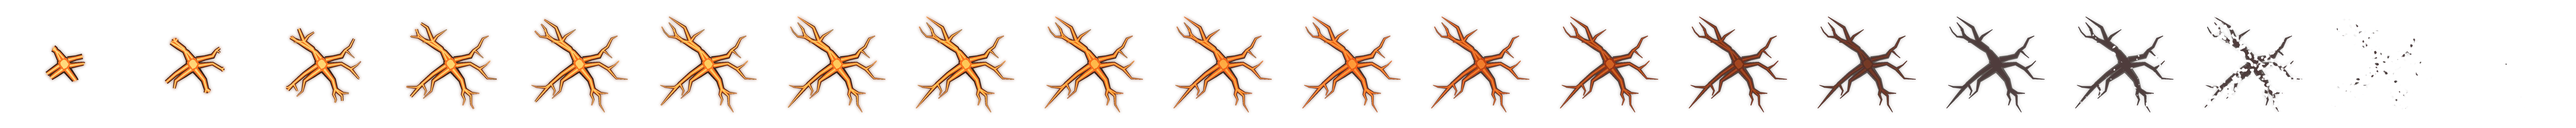
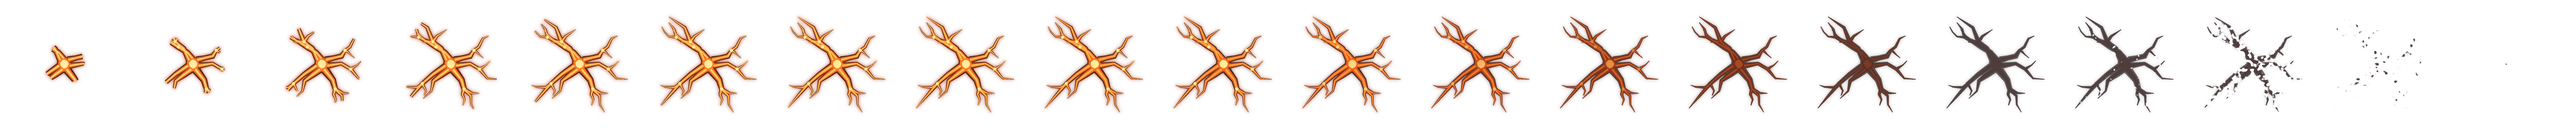
Ultimates land as the heaviest blow in the game and carry on each cut-in's last beat
- Weight: a 0.22 s freeze on the impact (a Pounce's best is 0.09), the hardest shake (1.6), then the world in
  slow motion for 0.4 s with the screen's edges tinted the ultimate's colour (the dodge's stays cool blue), and a
  longer colour flash.
- Sunflare picks up where its cut-in ends: two rings of golden crystal burst up round the Elder on a rune of
  light (ring, inner ring, turning ticks) under the sun breaking open behind it; the crystals take the
  Amethyst's prism painter in gold.
- Thorn Snare picks up its cut-in's green ribbons: they fling out from the Elder and spiral down into the ground
  before the roots come up.
- Quake's rupture takes its cinematic's look: a red glow under the lava and hot nodes where the cracks fork and
  at the crater.
Checked with flutter analyze (no new issues).

Claude-Session: https://claude.ai/code/session_01HANmFDddYbzo6K9KzGZmoK

diff --git a/flutter/lib/features/wilds/wilds_screen.dart b/flutter/lib/features/wilds/wilds_screen.dart
@@ -2666,10 +2666,13 @@ class _MapPainter extends CustomPainter {
     // a perfect dodge: the world slows and cools for a moment
     final sm = s._raid?.slowmo ?? 0;
     if (sm > 0 && !rm) {
+      // (an ultimate landing: its own colour, deeper)
+      final ult = (s._raid?.ultSlow ?? 0) > 0;
+      final col = ult ? _tint(s._raid!.palette) : const Color.fromRGBO(120, 200, 255, 1);
       canvas.drawRect(
           Offset.zero & size,
           Paint()
-            ..shader = ui.Gradient.radial(c, size.longestSide * 0.7, [const Color(0x00000000), Color.fromRGBO(120, 200, 255, 0.22 * math.min(1.0, sm / 0.2))], const [0.45, 1.0]));
+            ..shader = ui.Gradient.radial(c, size.longestSide * 0.7, [const Color(0x00000000), col.withValues(alpha: (ult ? 0.3 : 0.22) * math.min(1.0, sm / 0.2))], const [0.45, 1.0]));
     }
     canvas.drawRect(
         Offset.zero & size,
@@ -3748,8 +3751,8 @@ class _MapPainter extends CustomPainter {
   }
 
   static const _groundBursts = {'pulse', 'tremor', 'rockrise', 'spores', 'sweep', 'dust', 'scar', 'reef', 'snare', 'mistwave', 'mistlinger',
-    'uquake', 'usnare', 'ureef', 'usunpool'};
-  static const _ultPieceKinds = {'uquake', 'usnare', 'usnarehold', 'ureef', 'ucrystal', 'usun'};
+    'uquake', 'usnare', 'ureef', 'usunpool', 'usunrune'};
+  static const _ultPieceKinds = {'uquake', 'usnare', 'usnarehold', 'ureef', 'ucrystal', 'usun', 'usunring'};
 
   /// Your Evochi's stage, for its moves' size and flourish: an Eggling's are small and simple, a Juvenile's
   /// fuller, an Elder's the whole show.
@@ -4260,12 +4263,24 @@ class _MapPainter extends CustomPainter {
   /// A crystal of an Amethyst's ring: a six-sided prism of violet glass with a pointed tip, leaning out from it,
   /// three faces lit differently, its edges catching the light, a glow inside and round its root, a twinkle at
   /// its tip (a smaller one beside it, a Juvenile's on).
-  void _crystal(Canvas canvas, double x, double z, double outX, double outZ, double h, double wd, double age, {bool cluster = false}) {
+  // a crystal's glass: ground light, inner glow, its three faces (root to shoulder), its tip's three faces, its outline
+  static const _violetGlass = [
+    Color(0xFFAA78FF), Color(0xFFBE8CFF), Color(0xE6C9A8FF), Color(0xE6F1E4FF), Color(0xE08A5ACF), Color(0xE0BF96F5),
+    Color(0xE65A3496), Color(0xE6875CC8), Color(0xF2FAF3FF), Color(0xEACCAEFA), Color(0xE69466D8), Color(0xFF3E1F6A),
+  ];
+  static const _goldGlass = [
+    Color(0xFFFFC85A), Color(0xFFFFD27A), Color(0xE6FFE2A0), Color(0xE6FFF6D8), Color(0xE0E8A040), Color(0xE0FFD07A),
+    Color(0xE6A8641C), Color(0xE6D49030), Color(0xF2FFFBEA), Color(0xEAFFE0A0), Color(0xE6E0A040), Color(0xFF6A3E10),
+  ];
+
+  void _crystal(Canvas canvas, double x, double z, double outX, double outZ, double h, double wd, double age, {bool cluster = false, bool gold = false}) {
     final g = s._toScreen(x, z);
     final H = h * _up, W = wd * s._u;
     final glowK = 0.75 + 0.25 * math.sin(age * 14 + x);
+    // its glass: an Amethyst's violet, or (the Sunflare's) gold
+    final gl = gold ? _goldGlass : _violetGlass;
     // the light it throws on the ground, and its bloom
-    canvas.drawOval(Rect.fromCenter(center: g, width: W * 6, height: W * 2.6), _add(Color.fromRGBO(170, 120, 255, 0.35 * glowK), blur: W));
+    canvas.drawOval(Rect.fromCenter(center: g, width: W * 6, height: W * 2.6), _add(gl[0].withValues(alpha: 0.35 * glowK), blur: W));
     void one(Offset base, double hh, double ww, double lean) {
       final tip = base + Offset(outX * hh * lean, -hh);
       final ax = tip - base;
@@ -4279,13 +4294,13 @@ class _MapPainter extends CustomPainter {
       Path quad(Offset a, Offset b, Offset c, Offset d) => Path()..moveTo(a.dx, a.dy)..lineTo(b.dx, b.dy)..lineTo(c.dx, c.dy)..lineTo(d.dx, d.dy)..close();
       Path tri(Offset a, Offset b, Offset c) => Path()..moveTo(a.dx, a.dy)..lineTo(b.dx, b.dy)..lineTo(c.dx, c.dy)..close();
       // inner glow along it
-      canvas.drawPath(quad(bl, sl, sr, br)..addPath(tri(sl, tip, sr), Offset.zero), _add(Color.fromRGBO(190, 140, 255, 0.45 * glowK), blur: ww * 1.2));
-      canvas.drawPath(quad(bl, sl, scl, bcl), Paint()..shader = ui.Gradient.linear(base, sh, [const Color(0xE6C9A8FF), const Color(0xE6F1E4FF)]));
-      canvas.drawPath(quad(bcl, scl, scr, bcr), Paint()..shader = ui.Gradient.linear(base, sh, [const Color(0xE08A5ACF), const Color(0xE0BF96F5)]));
-      canvas.drawPath(quad(bcr, scr, sr, br), Paint()..shader = ui.Gradient.linear(base, sh, [const Color(0xE65A3496), const Color(0xE6875CC8)]));
-      canvas.drawPath(tri(sl, tip, scl), Paint()..color = const Color(0xF2FAF3FF));
-      canvas.drawPath(tri(scl, tip, scr), Paint()..color = const Color(0xEACCAEFA));
-      canvas.drawPath(tri(scr, tip, sr), Paint()..color = const Color(0xE69466D8));
+      canvas.drawPath(quad(bl, sl, sr, br)..addPath(tri(sl, tip, sr), Offset.zero), _add(gl[1].withValues(alpha: 0.45 * glowK), blur: ww * 1.2));
+      canvas.drawPath(quad(bl, sl, scl, bcl), Paint()..shader = ui.Gradient.linear(base, sh, [gl[2], gl[3]]));
+      canvas.drawPath(quad(bcl, scl, scr, bcr), Paint()..shader = ui.Gradient.linear(base, sh, [gl[4], gl[5]]));
+      canvas.drawPath(quad(bcr, scr, sr, br), Paint()..shader = ui.Gradient.linear(base, sh, [gl[6], gl[7]]));
+      canvas.drawPath(tri(sl, tip, scl), Paint()..color = gl[8]);
+      canvas.drawPath(tri(scl, tip, scr), Paint()..color = gl[9]);
+      canvas.drawPath(tri(scr, tip, sr), Paint()..color = gl[10]);
       // a light running up through it
       final run = ((age * 1.6 + x * 0.01) % 1.0);
       final band = Offset.lerp(base, sh, run)!;
@@ -4299,12 +4314,12 @@ class _MapPainter extends CustomPainter {
         ..style = PaintingStyle.stroke
         ..strokeWidth = 1.5
         ..strokeJoin = StrokeJoin.round
-        ..color = const Color(0xFF3E1F6A));
+        ..color = gl[11]);
       canvas.drawLine(scl, bcl, Paint()
-        ..color = const Color(0x553E1F6A)
+        ..color = gl[11].withValues(alpha: 0.33)
         ..strokeWidth = 1);
       canvas.drawLine(scr, bcr, Paint()
-        ..color = const Color(0x553E1F6A)
+        ..color = gl[11].withValues(alpha: 0.33)
         ..strokeWidth = 1);
       _star(canvas, tip + const Offset(0, 1), ww * 0.9, Color.fromRGBO(255, 250, 255, (0.5 + 0.5 * math.sin(age * 16 + x)).clamp(0.0, 1.0)));
     }
@@ -4551,6 +4566,64 @@ class _MapPainter extends CustomPainter {
     }
   }
 
+  /// the Sunflare's rune of light on the ground (its cut-in's last beat): a ring and an inner ring, ticks between,
+  /// snapping out a little past its size and settling, then thinning away
+  void _uSunRune(Canvas canvas, Burst b, double k, double u) {
+    final grow = Curves.easeOutBack.transform((b.t / 0.25).clamp(0.0, 1.0));
+    final a = (1 - ((k - 0.7) / 0.3).clamp(0.0, 1.0)) * math.min(1.0, b.t / 0.05);
+    if (a <= 0) return;
+    final r = b.size * grow;
+    final e = _ellipse(b.x, b.z, r);
+    canvas.drawOval(e, Paint()
+      ..blendMode = BlendMode.plus
+      ..shader = ui.Gradient.radial(e.center, e.width / 2, [Color.fromRGBO(255, 210, 110, 0.22 * a), const Color.fromRGBO(255, 210, 110, 0)]));
+    final ring = Paint()
+      ..style = PaintingStyle.stroke
+      ..color = Color.fromRGBO(255, 222, 140, 0.9 * a);
+    canvas.drawOval(e, ring..strokeWidth = 2.2 * u);
+    canvas.drawOval(_ellipse(b.x, b.z, r * 0.72), ring..strokeWidth = 1.4 * u);
+    for (var i = 0; i < 16; i++) {
+      final an = i * math.pi * 2 / 16 + b.t * 0.6;
+      final p0 = s._toScreen(b.x + math.cos(an) * r * 0.74, b.z + math.sin(an) * r * 0.74);
+      final p1 = s._toScreen(b.x + math.cos(an) * r * (i.isEven ? 0.96 : 0.88), b.z + math.sin(an) * r * (i.isEven ? 0.96 : 0.88));
+      canvas.drawLine(p0, p1, ring..strokeWidth = (i.isEven ? 1.6 : 1.0) * u);
+    }
+  }
+
+  /// the Thorn Snare's release (its cut-in's last beat): green ribbons flung out from your Evochi, spiralling
+  /// down into the ground where the roots will come up
+  void _uSpiral(Canvas canvas, Burst b, double k, Offset g, double u) {
+    final e = Curves.easeOutQuart.transform(k);
+    final c = g - Offset(0, 16 * _up * (1 - e));
+    for (var i = 0; i < 4; i++) {
+      final a0 = i * math.pi / 2 + k * 2.2;
+      final path = Path();
+      for (var j = 0; j <= 18; j++) {
+        final t = j / 18;
+        final an = a0 + t * 2.4;
+        final rr = (8 + b.size * 0.9 * e * t) * s._u;
+        final p = c + Offset(math.cos(an) * rr, math.sin(an) * rr * s._map!.sinP);
+        if (j == 0) {
+          path.moveTo(p.dx, p.dy);
+        } else {
+          path.lineTo(p.dx, p.dy);
+        }
+      }
+      final al = (1 - k) * 0.9;
+      canvas.drawPath(path, Paint()
+        ..style = PaintingStyle.stroke
+        ..strokeCap = StrokeCap.round
+        ..strokeWidth = (5 - 3 * k) * u
+        ..color = Color.fromRGBO(70, 140, 40, 0.55 * al));
+      canvas.drawPath(path, Paint()
+        ..style = PaintingStyle.stroke
+        ..strokeCap = StrokeCap.round
+        ..strokeWidth = (2.2 - 1.2 * k) * u
+        ..blendMode = BlendMode.plus
+        ..color = Color.fromRGBO(200, 255, 140, al));
+    }
+  }
+
   /// the ultimates' standing pieces, each at its own depth: the Quake's rock heaved up and tumbling and its dust
   /// rolling out; the Snare's roots bursting up (and coiling round what they hold); the Reef's coral; the
   /// Shards' ring of crystal
@@ -4660,6 +4733,24 @@ class _MapPainter extends CustomPainter {
           final d = b.size * 1.1 * s._u;
           flare.draw(canvas, flare.at(b.t / b.ttl), Rect.fromCenter(center: c, width: d, height: d));
         }));
+      case 'usunring':
+        // its cut-in's last beat: two rings of golden crystal burst up round it, then sink
+        for (var ring = 0; ring < 2; ring++) {
+          final n = ring == 0 ? 9 : 13;
+          final rad = b.size * (ring == 0 ? 0.62 : 1.0);
+          for (var i = 0; i < n; i++) {
+            final a = (i + ring * 0.5) / n * math.pi * 2;
+            final x = b.x + math.cos(a) * rad, z = b.z + math.sin(a) * rad;
+            final lt = b.t - 0.03 - ring * 0.07 - (i % 3) * 0.012;
+            if (lt <= 0) continue;
+            final up = Curves.easeOutBack.transform((lt / 0.09).clamp(0.0, 1.0));
+            final down = ((b.t - (b.ttl - 0.3)) / 0.3).clamp(0.0, 1.0);
+            final h = up * (1 - Curves.easeIn.transform(down));
+            if (h <= 0.01) continue;
+            final tall = (ring == 0 ? 30.0 : 22.0) * (0.8 + 0.4 * ((i * 7) % 5) / 4);
+            items.add((z, () => _crystal(canvas, x, z, math.cos(a), math.sin(a), tall * h, ring == 0 ? 5.0 : 4.2, lt, cluster: i.isEven, gold: true)));
+          }
+        }
       case 'ucrystal':
         final star = fx?['crystal_burst'];
         if (star != null) {
@@ -5089,6 +5180,10 @@ class _MapPainter extends CustomPainter {
         _uMotes(canvas, b, k, u, const Color(0xFFC8F28A), const Color(0xFF7FC24E), leaves: true);
       case 'usun':
         _uSun(canvas, b, k, g, u);
+      case 'usunrune':
+        _uSunRune(canvas, b, k, u);
+      case 'usnarespiral':
+        _uSpiral(canvas, b, k, g, u);
       case 'usunpool':
         final e = _ellipse(b.x, b.z, b.size * 0.55 * (0.6 + 0.4 * Curves.easeOut.transform(k)));
         canvas.drawOval(e, Paint()

diff --git a/flutter/lib/features/wilds/wilds_combat.dart b/flutter/lib/features/wilds/wilds_combat.dart
@@ -580,6 +580,7 @@ class Raid {
   static const mistSpeed = 420.0;
   /// A perfect dodge slows the world for a moment (real seconds left) and opens a counter window.
   double slowmo = 0, counterT = 0;
+  double ultSlow = 0; // the slow-motion after an ultimate lands (tinted its colour, not the dodge's cool blue)
   /// Potion buffs (an Apothecary brew drunk in the Wilds): id -> seconds left. See [buffDefs].
   final buffs = <String, double>{};
   bool has(String b) => (buffs[b] ?? 0) > 0;
@@ -859,6 +860,7 @@ class Raid {
     _tickMist(dt);
     if (slowmo > 0) {
       slowmo -= dt;
+      ultSlow = math.max(0, ultSlow - dt);
       dt *= 0.35;
     }
     counterT = math.max(0, counterT - dt);
@@ -1663,9 +1665,13 @@ class Raid {
 
   void _signatureFire() {
     final p = pet;
-    hitstop = math.max(hitstop, 0.14);
-    shake = math.max(shake, 1.0);
-    flashT = math.max(flashT, 0.22);
+    // the heaviest blow there is: a long freeze on the impact, the hardest shake, then the world in slow motion a
+    // moment while it lands (a Pounce's best is a 0.09 s freeze and a 0.6 shake)
+    hitstop = math.max(hitstop, 0.22);
+    shake = math.max(shake, 1.6);
+    slowmo = math.max(slowmo, 0.4);
+    ultSlow = 0.4;
+    flashT = math.max(flashT, 0.3);
     flashKind = palette;
     p.glow = 1;
     bursts.add(Burst('lines', p.x, p.z, 0.55, size: 190, tag: palette));
@@ -1715,6 +1721,7 @@ class Raid {
         // hook round each)
         bursts.add(Burst('usnare', p.x, p.z, 2.6, size: 72));
         bursts.add(Burst('usnarefx', p.x, p.z, 2.6, size: 72));
+        bursts.add(Burst('usnarespiral', p.x, p.z, 0.7, size: 72)); // its cut-in's green ribbons, flung out
         for (final f in hostile.toList()) {
           if (p.dist(f) > 72 + f.radius) continue;
           bursts.add(Burst('usnarehold', f.x, f.z, f is Boss ? 3.0 : 2.4, size: f.radius));
@@ -1748,9 +1755,12 @@ class Raid {
           _hurt(f, 26 * atk, from: p, kx: (f.x - p.x) * k * 160, kz: (f.z - p.z) * k * 160, poise: 90, stun: f is Boss ? 0 : 1.3);
         }
       default:
-        // amber: a flash of sunlight that dazzles everything that can see it (its cut-in's sun breaking open)
+        // amber: a flash of sunlight that dazzles everything that can see it (its cut-in's sun breaking open
+        // behind it, and its cut-in's last beat carried on: two rings of golden crystal round it on a rune of light)
         bursts.add(Burst('usun', p.x, p.z, 1.0, size: 170));
         bursts.add(Burst('usunpool', p.x, p.z, 1.2, size: 170));
+        bursts.add(Burst('usunring', p.x, p.z, 1.5, size: 30));
+        bursts.add(Burst('usunrune', p.x, p.z, 1.5, size: 46));
         for (final f in hostile.toList()) {
           if (p.dist(f) > 170) continue;
           bursts.add(Burst('udazzle', f.x, f.z, 1.2, size: f.radius));

diff --git a/tools/art/ult_fx_bake.py b/tools/art/ult_fx_bake.py
@@ -74,6 +74,7 @@ def rupture_geometry(seed, K=7):
     crater = [(math.cos(a) * r, math.sin(a) * r) for a, r in
               ((i * 2 * math.pi / 11, 0.10 * rng.uniform(0.75, 1.25)) for i in range(11))]
     cracks = []
+    forks = []                                           # where a crack forks: a hot node, as in the cinematic
 
     def crack(p0, ang, L, w0, d0, depth):
         m = int(rng.integers(4, 7)) if depth == 0 else int(rng.integers(2, 4))
@@ -91,13 +92,14 @@ def rupture_geometry(seed, K=7):
                 j = int(rng.integers(2, m - 1))
                 side = rng.choice((-1, 1))
                 dj = pts[j + 1] - pts[j]
+                forks.append((pts[j], d0 + seg[j]))
                 crack(pts[j], math.atan2(dj[1], dj[0]) + side * rng.uniform(0.6, 1.0),
                       L * rng.uniform(0.22, 0.38), w[j] * 0.55, d0 + seg[j], 1)
     a0 = rng.uniform(0, 2 * math.pi)
     for k in range(K):
         a = a0 + k * 2 * math.pi / K + rng.uniform(-0.25, 0.25)
         crack((math.cos(a) * 0.09, math.sin(a) * 0.09), a, rng.uniform(0.70, 0.96), 0.030 * rng.uniform(0.8, 1.2), 0.0, 0)
-    return cracks, crater
+    return cracks, crater, forks
 
 
 def _crack_polys(cracks, reach, scale, c, wk):
@@ -126,7 +128,7 @@ def _crack_polys(cracks, reach, scale, c, wk):
 
 
 def rupture_frames(seed=777, size=384, n_open=8, n_cool=8, n_erode=4):
-    cracks, crater = rupture_geometry(seed)
+    cracks, crater, forks = rupture_geometry(seed)
     erode_n = ndimage.gaussian_filter(np.random.default_rng(seed + 1).random((size * 2, size * 2)), 6)
     erode_n = (erode_n - erode_n.min()) / (erode_n.max() - erode_n.min())
     Z = size * 2
@@ -154,12 +156,25 @@ def rupture_frames(seed=777, size=384, n_open=8, n_cool=8, n_erode=4):
         out = over(out, np.array([0.10, 0.07, 0.06]), ndimage.gaussian_filter(edge, 10) * (0.25 + 0.15 * h))
         out = over(out, np.array([0.08, 0.05, 0.045]), edge * (0.6 + 0.3 * h))
         glow = ndimage.gaussian_filter(body, 8) * 0.7 * h
+        out = over(out, lerp([0.45, 0.06, 0.02], [0.92, 0.22, 0.05], h), ndimage.gaussian_filter(body, 16) * 0.45 * h)  # red
         out = over(out, lerp([0.55, 0.10, 0.03], [1.0, 0.42, 0.12], h), glow * (1 - edge * 0.5))
         out = over(out, lerp([0.22, 0.06, 0.04], lerp([0.85, 0.20, 0.05], [1.0, 0.45, 0.12], h), min(1.0, h * 1.6)),
                    body * min(1.0, 0.35 + h * 1.4))
         if h > 0.05:
             hot = lerp([1.0, 0.35, 0.08], [1.0, 0.78, 0.32], h)
             out = over(out, hot, core * min(1.0, h * 1.5))
+        if h > 0.25:                                      # the forks and the crater: hot nodes (the cinematic's)
+            nodes = Image.new('L', (Z, Z), 0)
+            dn = ImageDraw.Draw(nodes)
+            for q, dd in forks + [(np.zeros(2), 0.0)]:
+                if dd > reach:
+                    continue
+                rr = Z * (0.012 if dd > 0 else 0.03)
+                qq = c + q * scale
+                dn.ellipse([qq[0] - rr, qq[1] - rr, qq[0] + rr, qq[1] + rr], fill=255)
+            nm = np.asarray(nodes, np.float32) / 255
+            out = over(out, np.array([1.0, 0.62, 0.2]), ndimage.gaussian_filter(nm, 7) * 0.8 * h)
+            out = over(out, np.array([1.0, 0.92, 0.6]), nm * min(1.0, (h - 0.25) * 2))
         if f < n_open:                                    # the fresh front of the split: hottest
             out = over(out, np.array([1.0, 0.93, 0.70]), core * 0.45 * (1 - f / n_open))
         if f >= n_open + n_cool:                          # the charred cracks crumble away (eroded, not faded)
